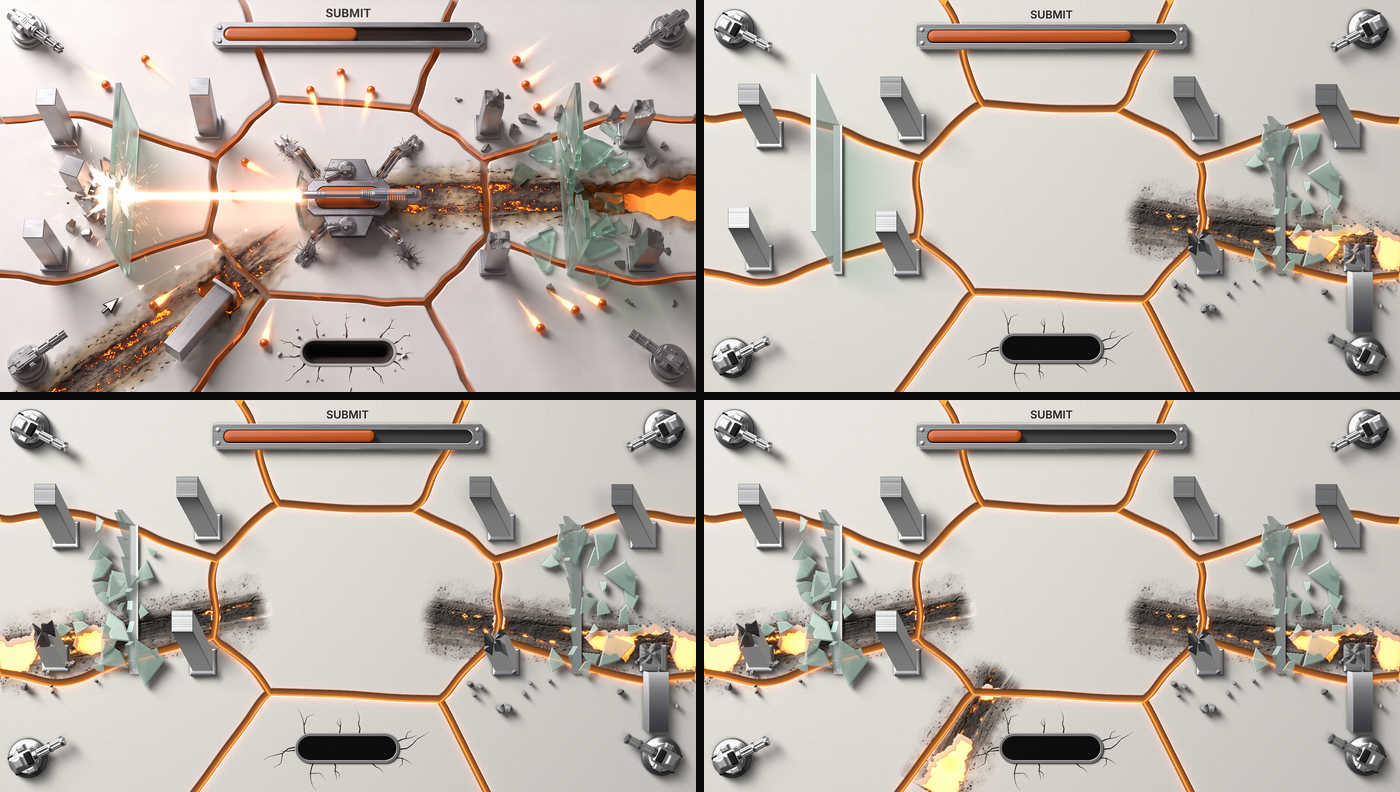
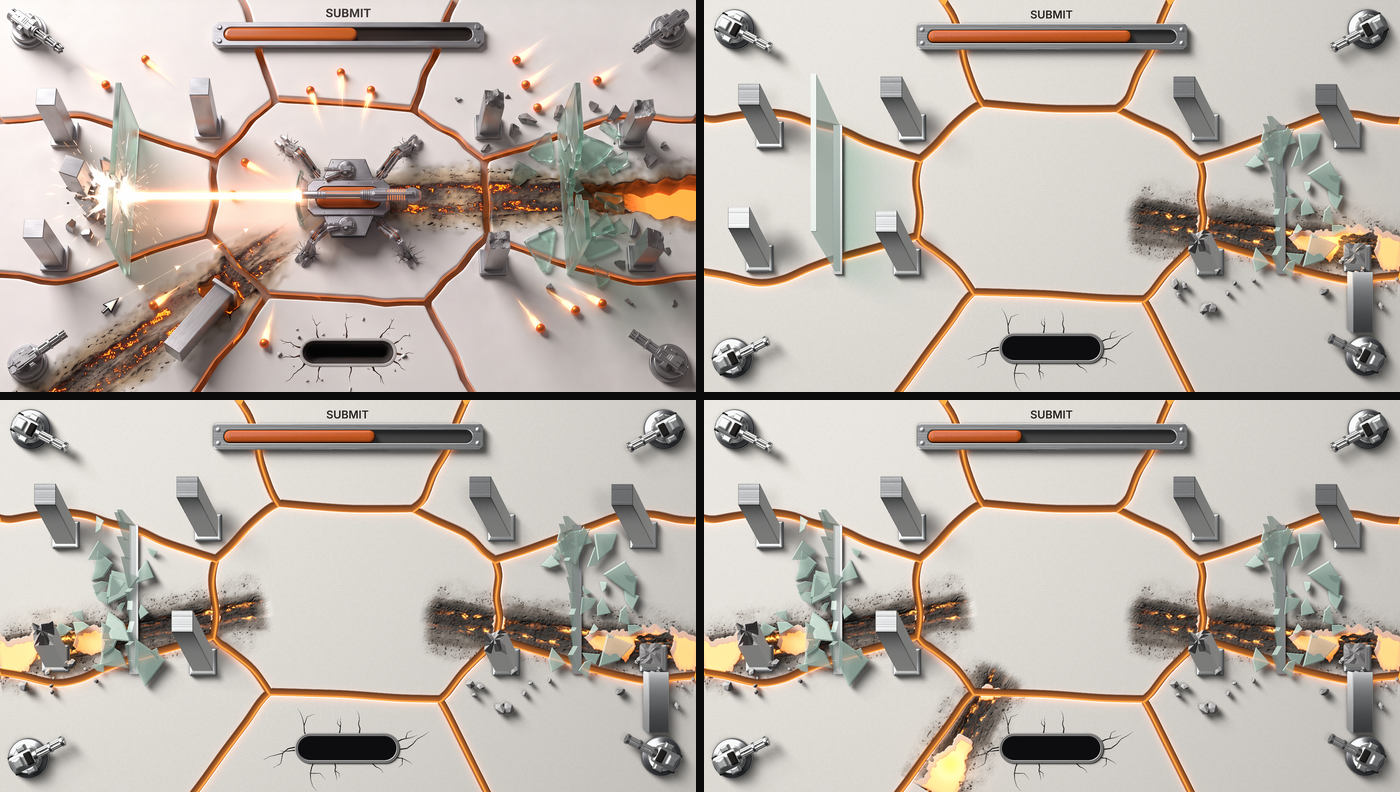
hole of a blast lit from below with its broken wall, warning band that reads on the ceramic, more dust at the split, sheets of the change, the blast and the box

diff --git a/src/arena/wreck.ts b/src/arena/wreck.ts
@@ -22,6 +22,7 @@ const SHARDS_EACH = 22
 const SPARKS_EACH = 64
 const SMOKE_EACH = 20
 const DUST = 44
+const DUST_SECONDS = 1.5
 // Over how many frames the wound of an aimed blast is painted ahead.
 const AHEAD_FRAMES = 18
 
@@ -35,13 +36,13 @@ function stumpGeometry(seed: number, id: number, high: number): { sides: THREE.B
     const a = corners[c]!, b = corners[(c + 1) % 4]!
     for (let i = 0; i < per; i++) {
       const u = i / per
-      ring.push({ x: a[0] + (b[0] - a[0]) * u, y: a[1] + (b[1] - a[1]) * u, z: high * (0.72 + 0.4 * rnd(seed, 700 + id, c * per + i)) })
+      ring.push({ x: a[0] + (b[0] - a[0]) * u, y: a[1] + (b[1] - a[1]) * u, z: high * (0.84 + 0.22 * rnd(seed, 700 + id, c * per + i)) })
     }
   }
   const sides = fresh(), top = fresh()
   const n = ring.length
-  const inner = ring.map((p, i) => ({ x: p.x * 0.5, y: p.y * 0.5, z: high * (0.74 + 0.4 * rnd(seed, 720 + id, i)) }))
-  const mid: V3 = [0, 0, high * (0.8 + 0.3 * rnd(seed, 740 + id))]
+  const inner = ring.map((p, i) => ({ x: p.x * 0.5, y: p.y * 0.5, z: high * (0.86 + 0.26 * rnd(seed, 720 + id, i)) }))
+  const mid: V3 = [0, 0, high * (0.9 + 0.2 * rnd(seed, 740 + id))]
   for (let i = 0; i < n; i++) {
     const p = ring[i]!, q = ring[(i + 1) % n]!
     const out: V3 = [p.x + q.x, p.y + q.y, 0]
@@ -219,7 +220,7 @@ export function makeWreck(seed: number, kit: Kit, wounds: Wounds, pillars: Pilla
   flashes.renderOrder = 7
   smoke.renderOrder = 5
 
-  const bandStuff = keep(new THREE.MeshBasicMaterial({ map: keep(bandTexture()), color: new THREE.Color(1, 0.36, 0.06), opacity: 0, ...add }))
+  const bandStuff = keep(new THREE.MeshBasicMaterial({ map: keep(bandTexture()), color: new THREE.Color(1.5, 0.3, 0.03), opacity: 0, ...add, blending: THREE.NormalBlending }))
   const band = new THREE.Mesh(plane, bandStuff)
   band.name = 'arena-warning'
   band.visible = false
@@ -310,7 +311,7 @@ export function makeWreck(seed: number, kit: Kit, wounds: Wounds, pillars: Pilla
       for (let j = 0; j < RUBBLE_EACH; j++) {
         const a = Math.atan2(-ay, ax) + (rnd(seed, 910 + i, j) - 0.5) * 2.6
         const far = 34 + 120 * rnd(seed, 920 + i, j) ** 1.5
-        const size = 12 + 30 * rnd(seed, 930 + i, j) ** 2
+        const size = 14 + 38 * rnd(seed, 930 + i, j) ** 1.7
         const z = size * 0.3 + Math.sin(Math.PI * fly) * (30 + 60 * rnd(seed, 935 + i, j))
         e.set(rnd(seed, 940 + i, j) * 6 + fly * 5, rnd(seed, 941 + i, j) * 6 + fly * 4, rnd(seed, 942 + i, j) * 6)
         q.setFromEuler(e)
@@ -411,12 +412,12 @@ export function makeWreck(seed: number, kit: Kit, wounds: Wounds, pillars: Pilla
 
     // The dust of the split.
     const since = t - ARENA.splitAt
-    if (since >= 0 && since < 1.3) {
+    if (since >= 0 && since < DUST_SECONDS) {
       for (const d of dust) {
-        const born = 0.35 * rnd(seed, 990, d.k)
-        const g = clamp01((since - born) / (1.3 - born))
-        const dark = 0.34 * Math.sin(Math.PI * Math.sqrt(g)) * (1 - g * 0.6)
-        const size = 40 + 130 * g + 40 * rnd(seed, 991, d.k)
+        const born = 0.3 * rnd(seed, 990, d.k)
+        const g = clamp01((since - born) / (DUST_SECONDS - born))
+        const dark = 0.5 * Math.sin(Math.PI * Math.sqrt(g)) * (1 - g * 0.55)
+        const size = 50 + 170 * g + 50 * rnd(seed, 991, d.k)
         put(smoke, nSmoke++, wx(d.x) + 24 * g * (rnd(seed, 992, d.k) - 0.5), wy(d.y) + 30 * g, 10 + 40 * g, rnd(seed, 993, d.k) * 6, size, size, dark * 0.86, dark * 0.9, dark)
       }
     }
@@ -440,7 +441,7 @@ export function makeWreck(seed: number, kit: Kit, wounds: Wounds, pillars: Pilla
       band.position.set(wx((big.x0 + big.x1) / 2), wy((big.y0 + big.y1) / 2), 0.8)
       band.rotation.z = Math.atan2(-(big.y1 - big.y0), big.x1 - big.x0)
       band.scale.set(long, big.width, 1)
-      bandStuff.opacity = (0.25 + 0.75 * tell * tell) * (0.72 + 0.28 * Math.sin(t * (9 + 22 * tell)))
+      bandStuff.opacity = (0.4 + 0.6 * tell * tell) * (0.72 + 0.28 * Math.sin(t * (9 + 22 * tell)))
     }
 
     for (const [mesh, n] of [[rubble, nRubble], [shards, nShards], [sparks, nSparks], [flashes, nFlash], [smoke, nSmoke]] as [THREE.InstancedMesh, number][]) {

diff --git a/src/arena/ground.ts b/src/arena/ground.ts
@@ -81,7 +81,7 @@ export function woundedCeramic(w: Wounds): THREE.MeshPhysicalMaterial {
     const emissive = '#include <emissivemap_fragment>'
     if (!shader.fragmentShader.includes(colour) || !shader.fragmentShader.includes(emissive)) throw new Error('The surface code of this three.js release is not the one the arena was written for')
     shader.fragmentShader = head + shader.fragmentShader
-      .replace(colour, `${colour}\n\tvec4 arenaW = texture2D( arenaWounds, vArenaUv );\n\tdiffuseColor.rgb = mix( diffuseColor.rgb, vec3( 0.2, 0.15, 0.115 ), smoothstep( 0.0, 0.5, arenaW.r ) * 0.85 );\n\tdiffuseColor.rgb = mix( diffuseColor.rgb, vec3( 0.03, 0.027, 0.025 ), smoothstep( 0.3, 1.0, arenaW.r ) );\n\tdiffuseColor.rgb *= mix( vec3( 1.0 ), vec3( 0.7, 0.6, 0.52 ), smoothstep( 0.08, 0.3, arenaW.a ) );`)
+      .replace(colour, `${colour}\n\tvec4 arenaW = texture2D( arenaWounds, vArenaUv );\n\tdiffuseColor.rgb = mix( diffuseColor.rgb, vec3( 0.2, 0.15, 0.115 ), smoothstep( 0.0, 0.5, arenaW.r ) * 0.85 );\n\tdiffuseColor.rgb = mix( diffuseColor.rgb, vec3( 0.03, 0.027, 0.025 ), smoothstep( 0.3, 1.0, arenaW.r ) );\n\tdiffuseColor.rgb *= mix( vec3( 1.0 ), vec3( 0.42, 0.3, 0.24 ), smoothstep( 0.08, 0.3, arenaW.a ) ) * ( 1.0 - 0.94 * smoothstep( 0.55, 0.9, arenaW.a ) );`)
       .replace(emissive, `${emissive}
 \t{
 \t\tvec2 arenaT = ${texel};
@@ -94,7 +94,7 @@ export function woundedCeramic(w: Wounds): THREE.MeshPhysicalMaterial {
 \t\tfloat arenaWall = smoothstep( 0.08, 0.3, arenaW.a ) * ( 1.0 - arenaLight );
 \t\tfloat arenaB = arenaW.b * arenaW.b;
 \t\ttotalEmissiveRadiance += arenaEmber * mix( vec3( 1.9, 0.36, 0.03 ), vec3( 3.6, 1.7, 0.34 ), arenaB ) * arenaB * arenaFlick;
-\t\ttotalEmissiveRadiance += mix( vec3( 1.25, 0.3, 0.025 ), vec3( 2.1, 0.78, 0.085 ), smoothstep( 0.66, 1.0, arenaW.a ) ) * arenaLight + vec3( 0.62, 0.17, 0.022 ) * arenaWall;
+\t\ttotalEmissiveRadiance += mix( vec3( 1.15, 0.27, 0.02 ), vec3( 2.0, 0.72, 0.075 ), smoothstep( 0.66, 1.0, arenaW.a ) ) * arenaLight + vec3( 0.5, 0.12, 0.014 ) * arenaWall;
 \t\tfloat arenaS = texture2D( arenaSpill, vArenaUv ).r;
 \t\ttotalEmissiveRadiance += vec3( 0.8, 0.2, 0.03 ) * arenaS * arenaS * arenaSeam * ( 1.0 - arenaW.r );
 \t}`)

diff --git a/src/arena/breaks.ts b/src/arena/breaks.ts
@@ -174,7 +174,7 @@ export function paintLayer(layer: Uint8Array, W: number, H: number, k: ViewBreak
       const taper = step(-16, 46, s)
       const edge = half * (0.62 + 0.5 * (streak - 0.5)) + 14 * (mid - 0.5)
       const hair = noise(s / 70 + 31.7, c / 3.2, seed + 17)
-      let soot = step(edge + 46, edge - 12, ac) ** 1.4 * (0.6 + 0.4 * hair) * (0.82 + 0.18 * fine)
+      let soot = step(edge + 46, edge - 12, ac) ** 1.4 * (0.86 + 0.14 * hair) * (0.82 + 0.18 * fine)
       soot = Math.max(soot, 0.4 * step(edge + 96, edge + 4, ac) * (0.35 + 0.65 * mid))
       // Specks of soot thrown wide of the trench, and dark fissures that run with it.
       if (ac < edge + 74 && mid > 0.42) {
@@ -190,10 +190,10 @@ export function paintLayer(layer: Uint8Array, W: number, H: number, k: ViewBreak
       let ember = 0
       if (ac < half * 0.56) {
         // Two rows of them, in clumps drawn out along the line, as coals lie in a furrow.
-        const patch = step(0.3, 0.5, noise(s / 80 + id * 3.7, (c > 0 ? 3.3 : 9.1), seed + 15))
+        const patch = 0.45 + 0.55 * step(0.3, 0.5, noise(s / 80 + id * 3.7, (c > 0 ? 3.3 : 9.1), seed + 15))
         const blob = fbm(s / 21 + 50, c / 8.5 + id, seed + 16)
         const row = Math.exp(-(((ac - half * 0.27) / (half * 0.13)) ** 2))
-        ember = step(0.5, 0.64, blob) * (0.4 + 0.6 * step(0.36, 0.56, fine)) * patch * (0.12 + 0.88 * row) * taper
+        ember = step(0.46, 0.6, blob) * (0.4 + 0.6 * step(0.36, 0.56, fine)) * patch * (0.12 + 0.88 * row) * taper
       }
       data[at] = Math.round(255 * Math.min(1, soot))
       data[at + 1] = Math.round(255 * Math.min(1, depth))

diff --git a/src/arena/props.ts b/src/arena/props.ts
@@ -55,7 +55,7 @@ export function makeKit(): Kit {
   const glass = studio(new THREE.MeshPhysicalMaterial({ color: new THREE.Color(0.5, 0.7, 0.62), emissive: new THREE.Color(0.2, 0.3, 0.26), roughness: 0.5, metalness: 0, clearcoat: 0.5, clearcoatRoughness: 0.4, specularIntensity: 0.7, transparent: true, opacity: 0.72, depthWrite: true, side: THREE.FrontSide }))
   const glassEdge = studio(new THREE.MeshPhysicalMaterial({ color: new THREE.Color(0.8, 0.93, 0.88), roughness: 0.35, metalness: 0, clearcoat: 0.8, clearcoatRoughness: 0.2, specularIntensity: 0.9, transparent: true, opacity: 0.9 }))
   const shard = studio(new THREE.MeshPhysicalMaterial({ color: new THREE.Color(0.62, 0.84, 0.75), emissive: new THREE.Color(0.1, 0.16, 0.14), roughness: 0.22, metalness: 0, clearcoat: 1, clearcoatRoughness: 0.12, specularIntensity: 1, transparent: true, opacity: 0.5, depthWrite: false, side: THREE.DoubleSide, flatShading: true }))
-  const broken = studio(new THREE.MeshPhysicalMaterial({ color: new THREE.Color(0.36, 0.36, 0.375), roughness: 0.8, metalness: 0.45, specularIntensity: 0.5, flatShading: true }))
+  const broken = studio(new THREE.MeshPhysicalMaterial({ color: new THREE.Color(0.5, 0.5, 0.515), roughness: 0.9, metalness: 0.2, specularIntensity: 0.4, flatShading: true }))
   const hot = new THREE.MeshBasicMaterial({ color: new THREE.Color(3.2, 1.1, 0.16), toneMapped: false })
   return { aluminium: m.aluminium, satin: m.aluminiumSatin, steel: m.steel, dark: m.gap, chrome: m.chrome, glass, glassEdge, shard, orange: m.orange, broken, hot, own: [glass, glassEdge, shard, broken, hot] }
 }
